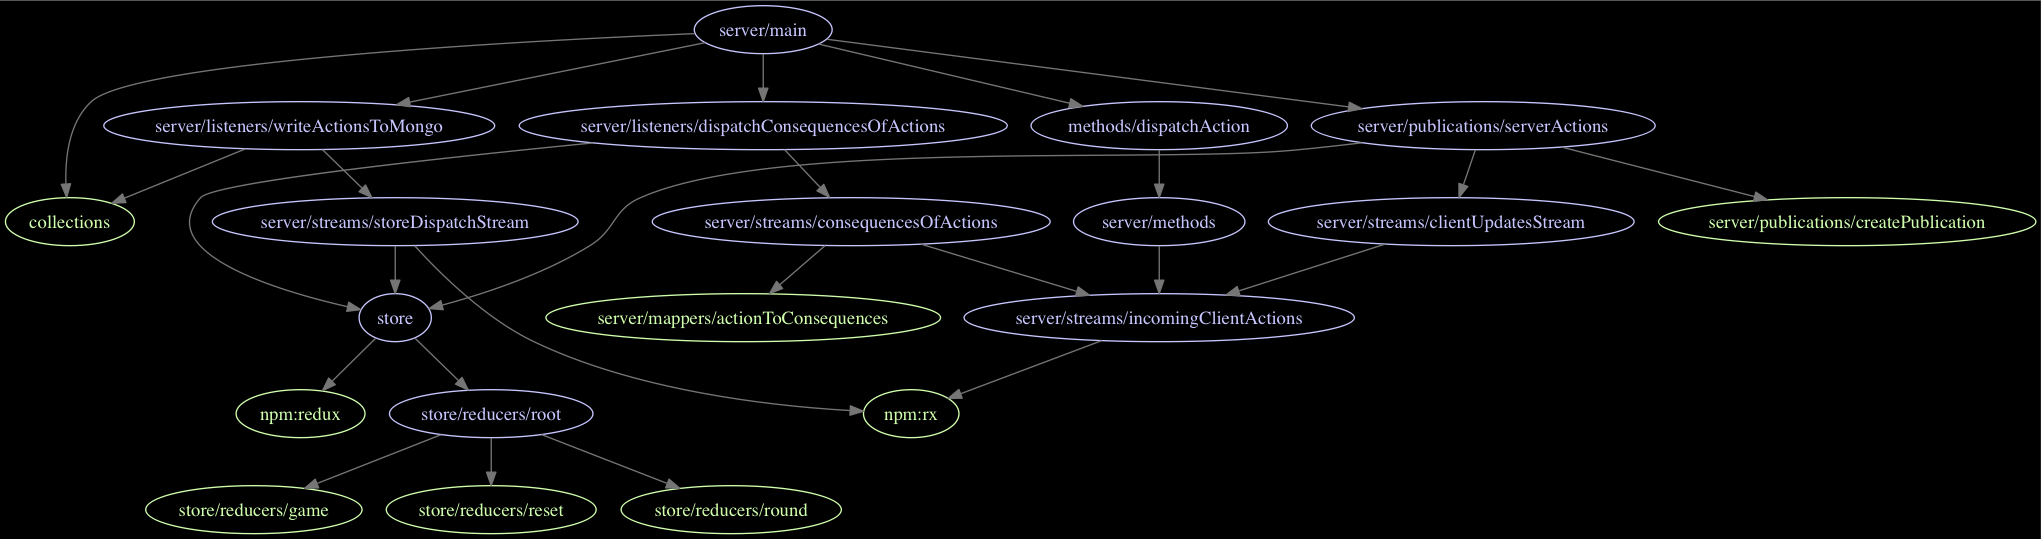
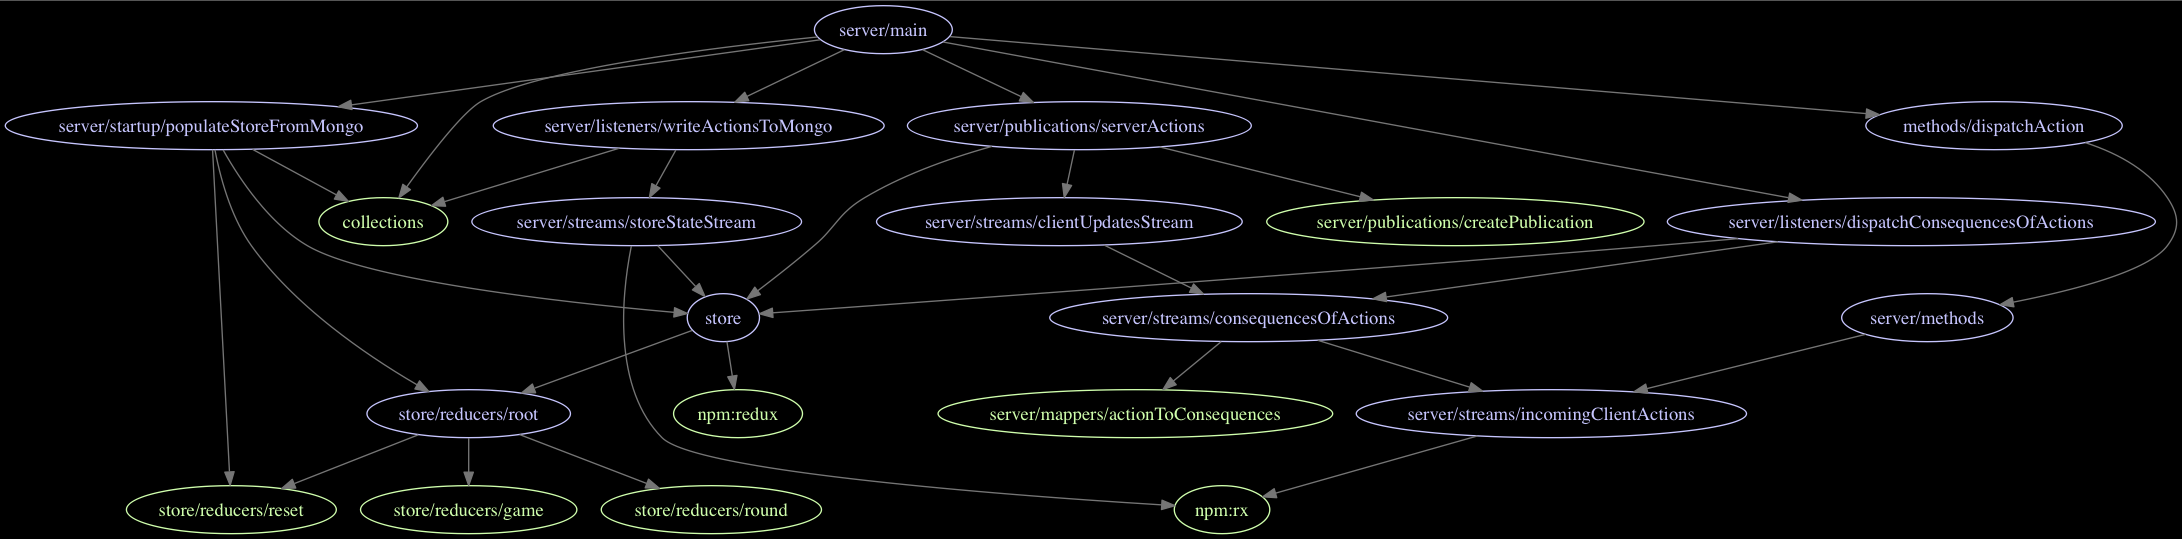
As a user I want to see the state of the store even if the server reboots - load an initialState to Mongo upon boot to seed - load from Mongo to store - asynchronously write to Mongo upon store updates

diff --git a/imports/server/listeners/writeActionsToMongo.js b/imports/server/listeners/writeActionsToMongo.js
@@ -1,23 +1,20 @@
 import { Meteor } from 'meteor/meteor'
 import { Games } from '../../collections/collections'
 
-import storeDispatchStream from '../streams/storeDispatchStream'
-
-if (Games.find().count() === 0) {
-  Games.insert({})
-}
+import storeStateStream from '../streams/storeStateStream'
 
 let singletonGame = Games.findOne()
 let singletonId = singletonGame && singletonGame._id
 
 // We want latencies from this listener not to block other listeners
-// - A Meteor.sleep(1500) should not delay anything being sent upstream
-storeDispatchStream.subscribe(state => Meteor.defer(() => {
+storeStateStream.subscribe(state => Meteor.defer(() => {
   console.log('Updating mongo with new state...')
 
-  Meteor.sleep(1500)
+  // XXX in future a more granular update could be produced off of the last two states
+  // for now we're just clobbering the whole mongo document - I suspect it's smart about
+  // doing the minimal thing internally and we'd only save network bandwidth/time by
+  // doing less
   Games.update(singletonId, state)
 
   console.log('Mongo updated', state, singletonId)
 }))
-

diff --git a/imports/server/publications/serverActions.js b/imports/server/publications/serverActions.js
@@ -8,6 +8,7 @@ import clientUpdatesStream, { sanitizePayload } from '../streams/clientUpdatesSt
 createPublication('serverActions', ({ connection, added, error, ready, onStop }) => {
   console.log(`got subscriber ${connection.id}, sent state`,
     JSON.stringify(sanitizePayload(store.getState()).toJS()))
+
   added('serverActions', new Mongo.ObjectID(),
     {
       type: 'RESET',
@@ -18,7 +19,7 @@ createPublication('serverActions', ({ connection, added, error, ready, onStop })
   let subscription = clientUpdatesStream.subscribe((action) => {
     console.log(`sending action upstream to ${connection.id}`, action.toJS())
     added('serverActions', new Mongo.ObjectID(), action.toJS())
-  })
+  }, error)
 
   onStop(() => {
     console.log(`${connection.id} has said bye-bye`)

diff --git a/imports/store/reducers/root.js b/imports/store/reducers/root.js
@@ -1,5 +1,4 @@
 /* eslint {curly: 0, no-use-before-define:0, global-require:0, import/no-mutable-exports:0} */
-import { Meteor } from 'meteor/meteor'
 import { fromJS } from 'immutable'
 import { combineReducers as createStateTree } from 'redux-immutable'
 import { createReducer } from 'redux-act'
@@ -12,6 +11,12 @@ import { resetAction, resetReducer } from './reset'
 let stateReducer = createStateTree({
   game: createReducer(Game.actionReducers, fromJS(Game.initialState)),
   round: createReducer(Round.actionReducers, fromJS(Round.initialState))
+})
+
+// export this so we can define an object suitable for insertion on startup
+export const initialStateTree = fromJS({
+  game: Game.initialState,
+  round: Round.initialState
 })
 
 let reducer = createDefaultedReducer({

diff --git a/imports/server/startup/populateStoreFromMongo.js b/imports/server/startup/populateStoreFromMongo.js
@@ -1,0 +1,19 @@
+import store from '/imports/store/store'
+import { Games } from '/imports/collections/collections'
+import { Meteor } from 'meteor/meteor'
+import { resetAction } from '/imports/store/reducers/reset'
+
+import { initialStateTree } from '/imports/store/reducers/root'
+
+Meteor.startup(() => {
+  if (Games.find().count() === 0) {
+    console.log('seeding initial game')
+    Games.insert(initialStateTree)
+  }
+
+  let singletonGame = Games.findOne()
+  delete singletonGame._id
+  let payload = singletonGame
+  console.log('resetting store to ', payload)
+  store.dispatch(resetAction(payload))
+})

diff --git a/imports/server/streams/clientUpdatesStream.js b/imports/server/streams/clientUpdatesStream.js
@@ -1,10 +1,10 @@
-import incomingClientActions from './incomingClientActions'
+import consequencesOfActions from './consequencesOfActions'
 
 export const sanitizePayload = (payload) => {
   return payload && payload.updateIn(['game', 'questions'],
     qs => qs && qs.map(q => q.delete('correctAnswer')))
 }
 
-export default incomingClientActions.map(a => {
+export default consequencesOfActions.map(a => {
   return a.update('payload', sanitizePayload)
 })

diff --git a/imports/server/main.js b/imports/server/main.js
@@ -1,7 +1,10 @@
+/* eslint no-unused-vars:0 */
+
 import { dispatchAction } from '../methods/dispatchAction'
 import serverActions from './publications/serverActions'
 
 import * as Collections from '../collections/collections'
+import populateStoreFromMongo from './startup/populateStoreFromMongo'
 
 import dispatchConsequencesOfActions from './listeners/dispatchConsequencesOfActions'
 import writeActionsToMongo from './listeners/writeActionsToMongo'

diff --git a/imports/store/reducers/game.js b/imports/store/reducers/game.js
@@ -1,7 +1,6 @@
-import { Meteor } from 'meteor/meteor'
 import { createAction } from 'redux-act'
 
-export const initialState = Meteor.isClient ? {} : {
+export const initialState = {
   title: 'Meteor Redux Trivia',
   players: [],
   status: 'awaiting players',

diff --git a/imports/store/store.js b/imports/store/store.js
@@ -1,5 +1,5 @@
 import { Meteor } from 'meteor/meteor'
-import { createStore, combineReducers } from 'redux'
+import { createStore } from 'redux'
 import reducer from './reducers/root'
 
 let storeFactory = createStore

diff --git a/imports/components/Round.js b/imports/components/Round.js
@@ -5,7 +5,7 @@ export const Round = ({ question, judged }) => {
 
   return (
     <div>
-      Question: {question.prompt}
+      Question {judged ? '(judged)' : '(open)'}: {question.prompt}
     </div>
   )
 }

diff --git a/imports/client/main.js b/imports/client/main.js
@@ -1,4 +1,4 @@
-// import routes from '/imports/routes'
+/* eslint no-unused-vars:0 */
 import routes from './routes'
 
 import { dispatchAction } from '../methods/dispatchAction'
